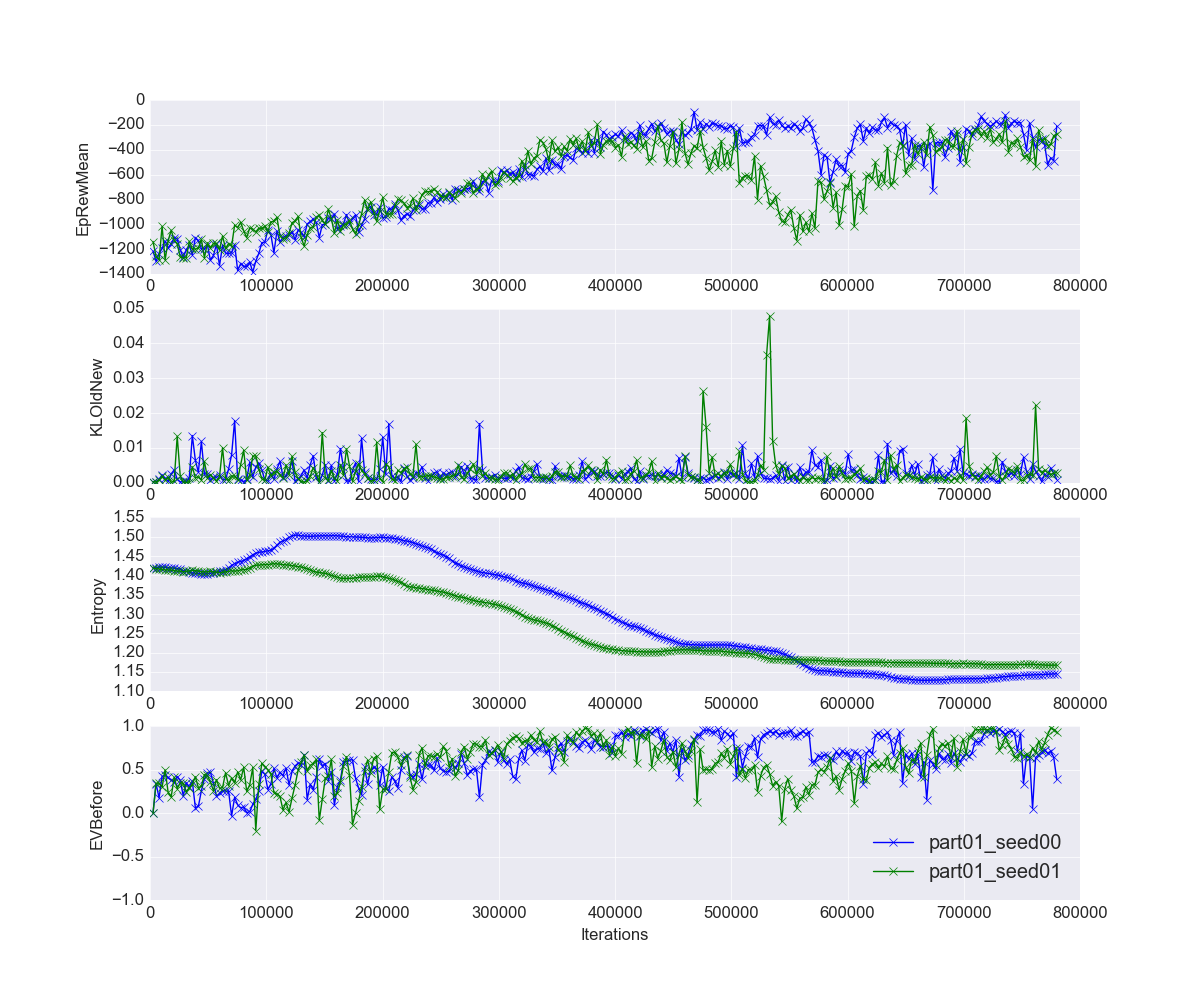
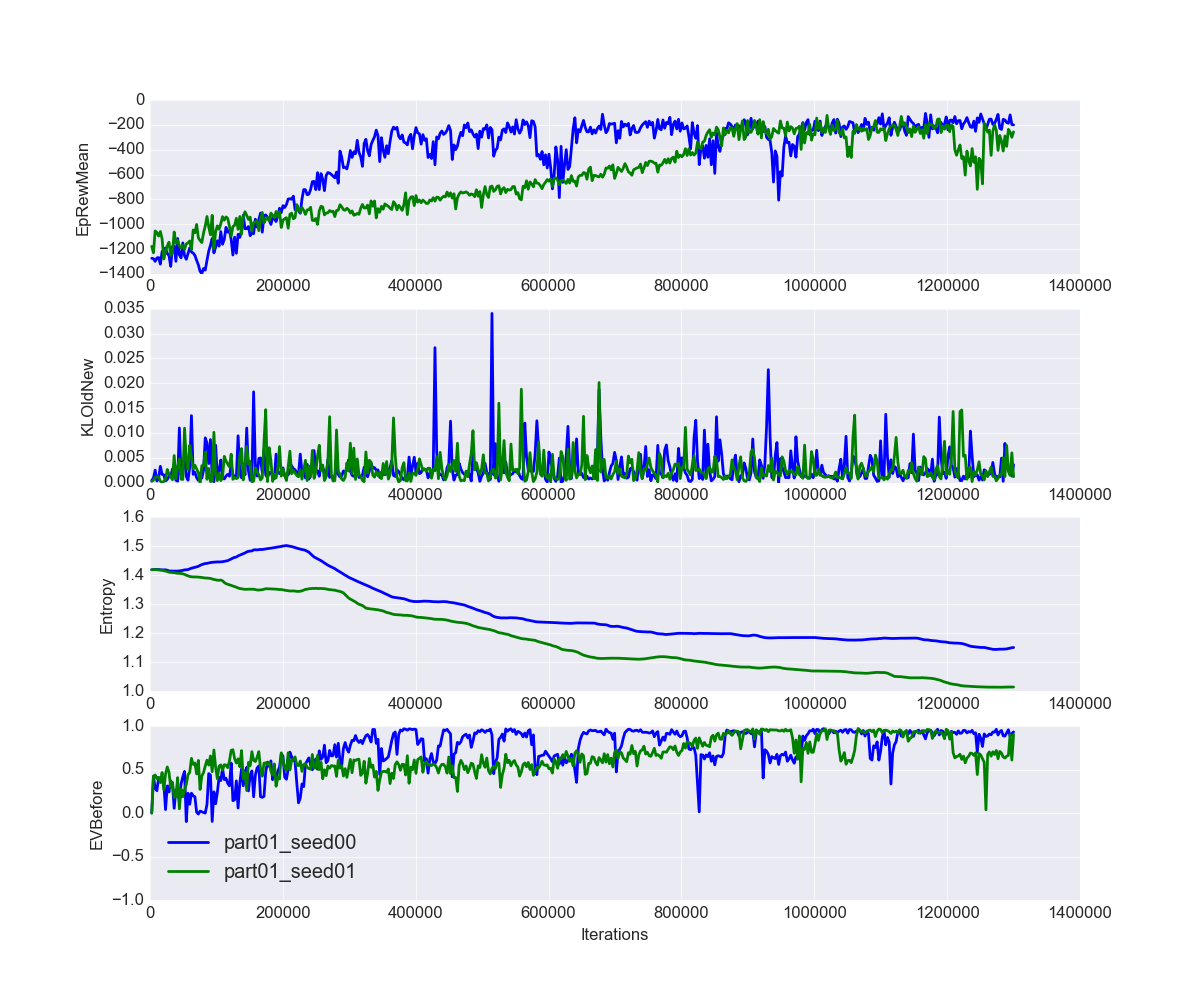
More plotting updates

diff --git a/pg/plot_learning_curves.py b/pg/plot_learning_curves.py
@@ -16,6 +16,7 @@ from pylab import *
 import os
 from os.path import join
 dirnames = os.listdir(args.expdir)
+lw=2
 
 fig, axes = subplots(4, figsize=(12,10))
 for dirname in dirnames:
@@ -23,10 +24,10 @@ for dirname in dirnames:
     A = np.genfromtxt(join(args.expdir, dirname, 'log.txt'),delimiter='\t',dtype=None, names=True)
     # axes[0].plot(scipy.signal.savgol_filter(A['EpRewMean'] , 21, 3), '-x')
     x = A['TimestepsSoFar']
-    axes[0].plot(x, A['EpRewMean'], '-x')
-    axes[1].plot(x, A['KLOldNew'], '-x')
-    axes[2].plot(x, A['Entropy'], '-x')
-    axes[3].plot(x, A['EVBefore'], '-x')
+    axes[0].plot(x, A['EpRewMean'], '-', lw=lw)
+    axes[1].plot(x, A['KLOldNew'], '-', lw=lw)
+    axes[2].plot(x, A['Entropy'], '-', lw=lw)
+    axes[3].plot(x, A['EVBefore'], '-', lw=lw)
 legend(dirnames,loc='best').draggable()
 axes[0].set_ylabel("EpRewMean")
 axes[1].set_ylabel("KLOldNew")

diff --git a/pg/README.md b/pg/README.md
@@ -7,4 +7,6 @@ details. Here's the first figure they wanted:
 ![part01](figures/part_01.png?raw=true)
 
 I think it looks good. Their "-300" requirement for the reward is a bit unclear.
-The performance seems to reach that level but sometimes dips below.
+The performance seems to reach that level but sometimes dips below. I ran this
+with the default settings, except for increasing the number of iterations from
+300 to 500.
